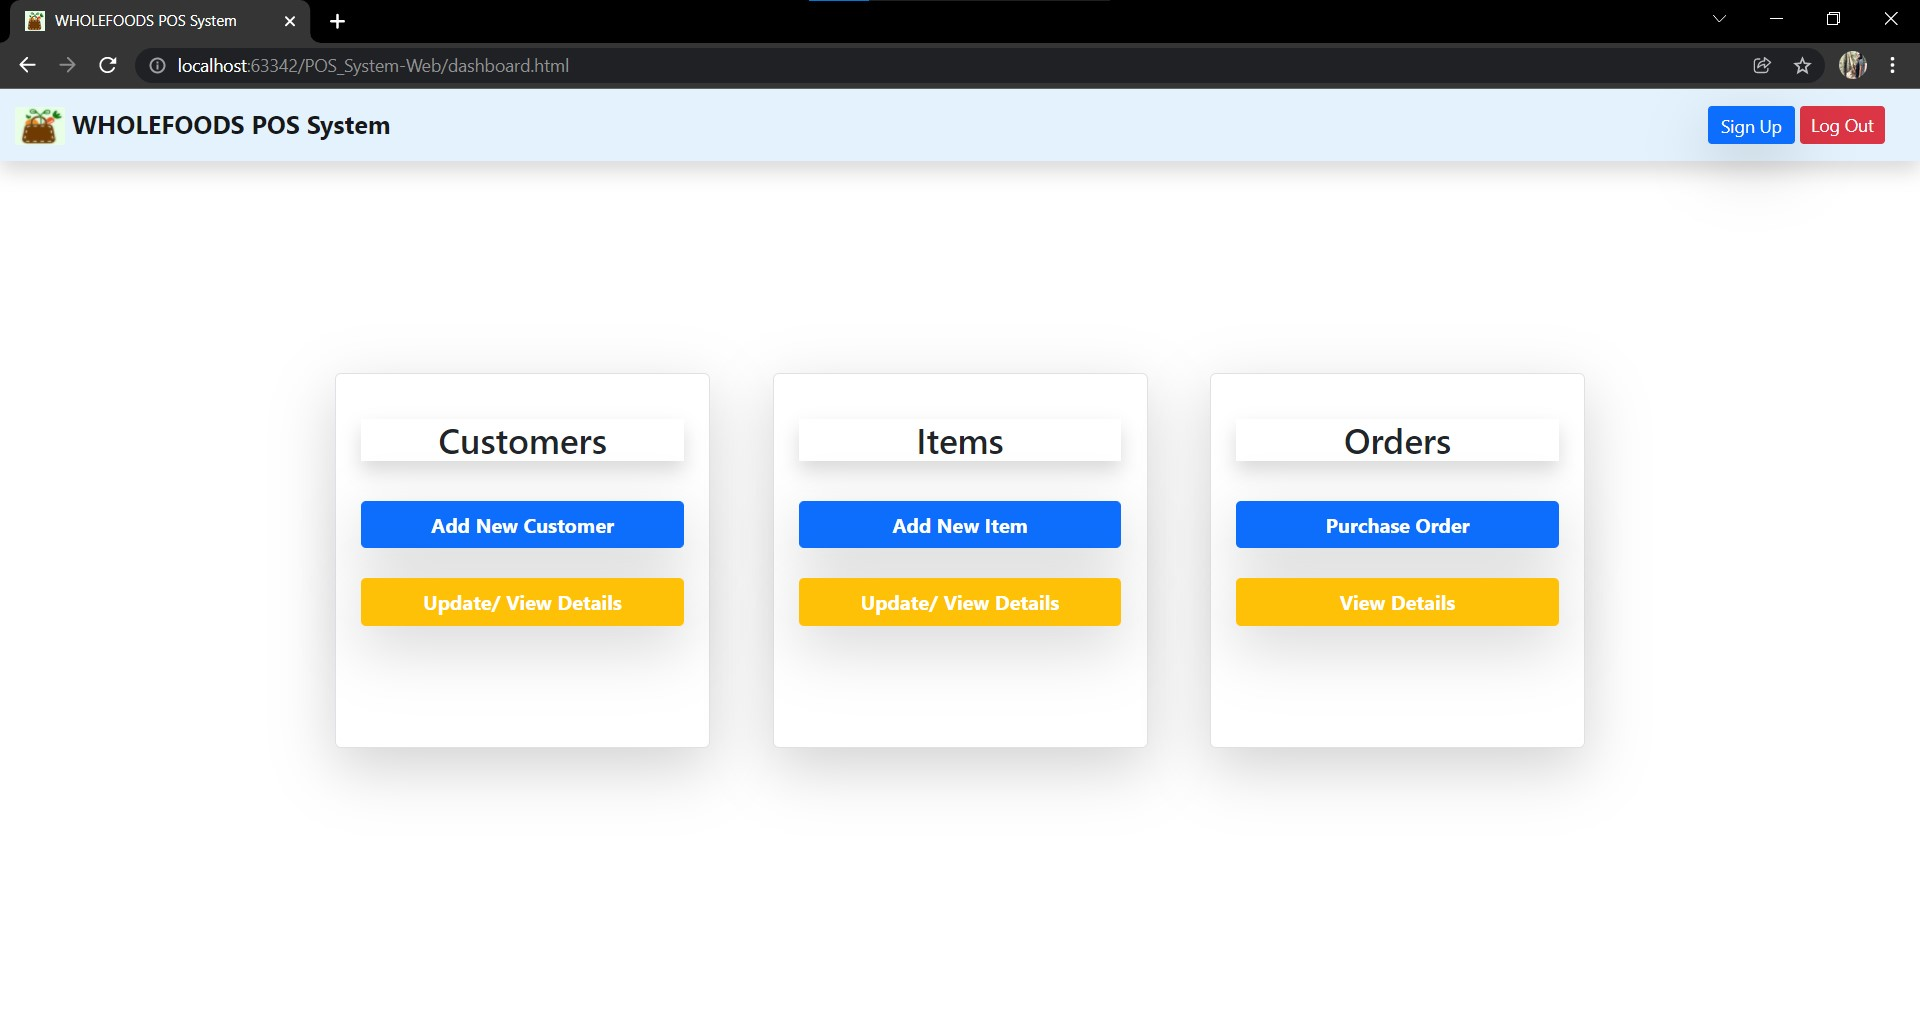
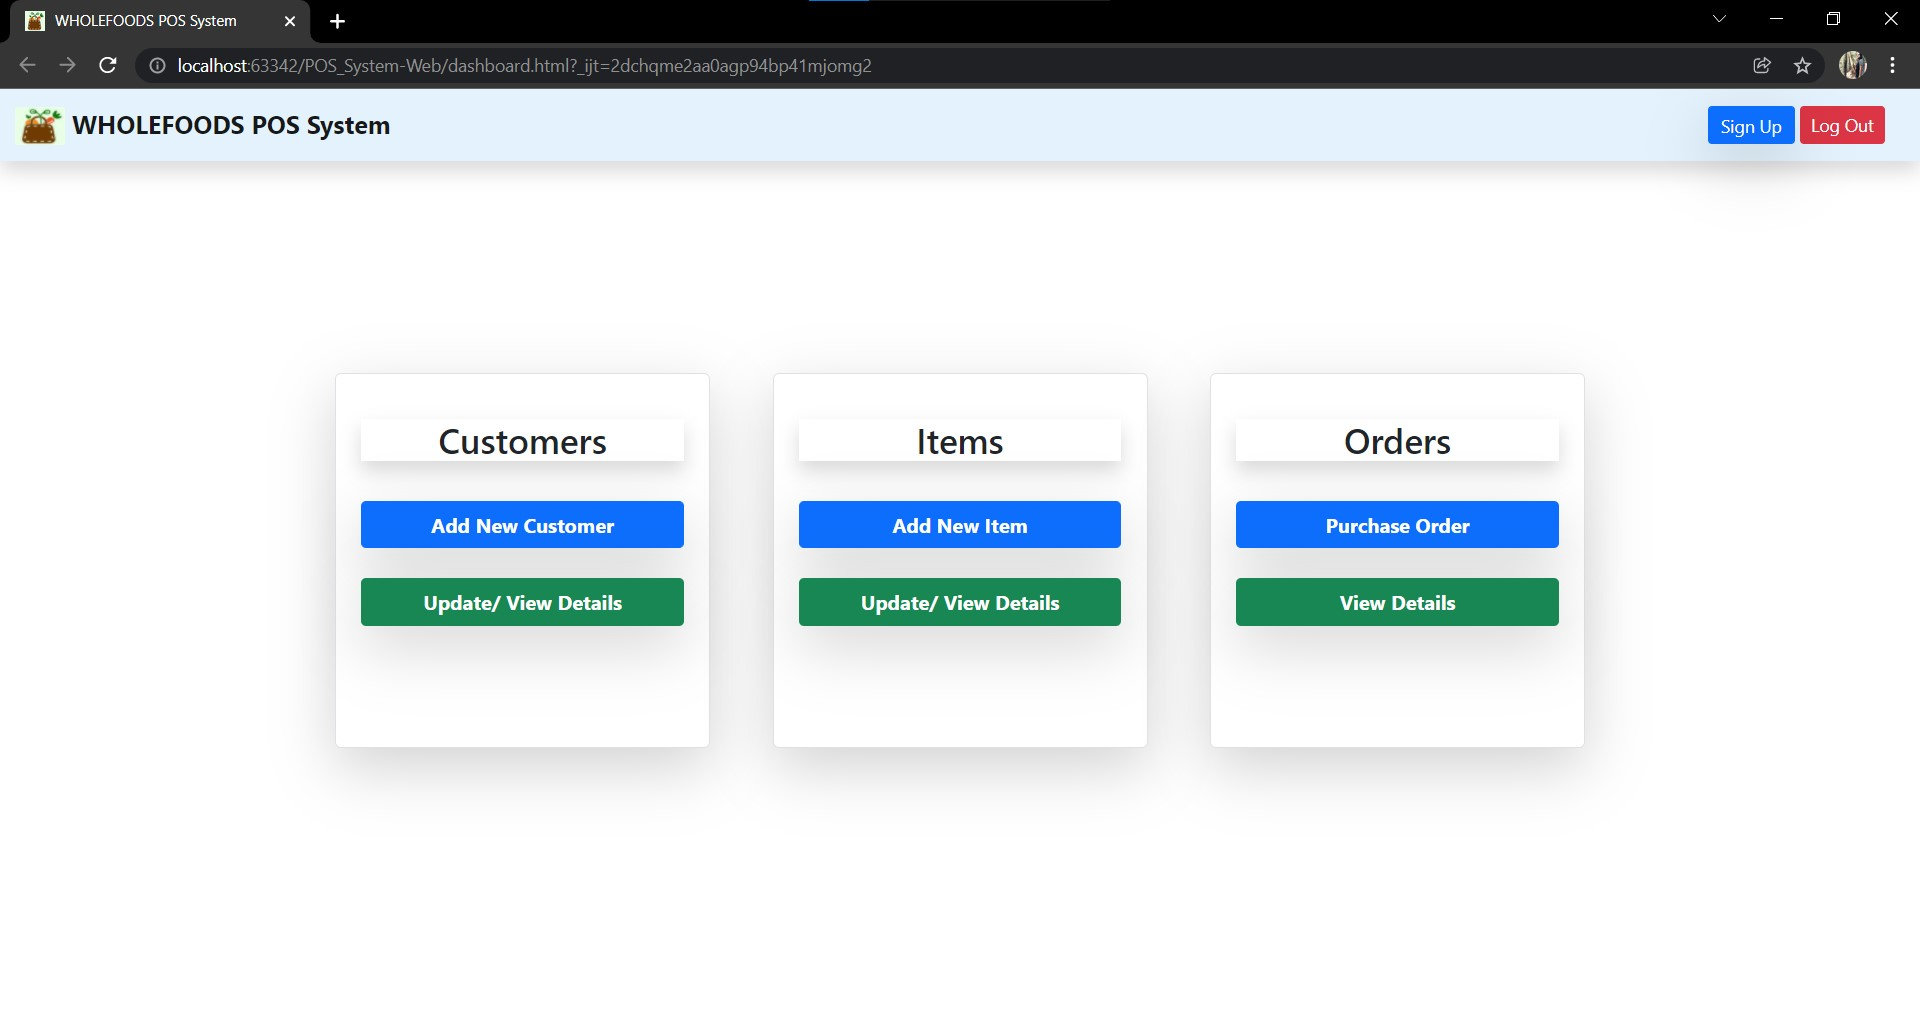
Update README

diff --git a/dashboard.html b/dashboard.html
@@ -565,7 +565,7 @@
         </div>
       </div>
     </div>
-    <button id="customerDetailsBtn"  type="submit" class="btn btn text-white bg-warning col-12 mt-4 fw-bolder shadow-lg"><a href="manageCustomer.html" class="text-decoration-none text-white ">Update/ View Details</a></button>
+    <button id="customerDetailsBtn"  type="submit" class="btn btn text-white bg-success col-12 mt-4 fw-bolder shadow-lg"><a href="manageCustomer.html" class="text-decoration-none text-white ">Update/ View Details</a></button>
   </div>
   <div class="col-4 border border shadow-lg rounded-3 bg-body">
       <h3 id="items" class="text-center mt-3 shadow">Items</h3>
@@ -608,13 +608,13 @@
           </div>
         </div>
       </div>
-      <button id="itemDetailsBtn"  type="submit" class="btn btn text-white bg-warning col-12 mt-4 fw-bolder shadow-lg"><a href="manageStore.html" class="text-decoration-none text-white">Update/ View Details</a></button>
+      <button id="itemDetailsBtn"  type="submit" class="btn btn text-white bg-success col-12 mt-4 fw-bolder shadow-lg"><a href="manageStore.html" class="text-decoration-none text-white">Update/ View Details</a></button>
     </div>
   <div class="col-4 border border shadow-lg rounded-3 bg-body">
       <h3 id="orders" class="text-center mt-3 shadow">Orders</h3>
       <button  id="purchaseBtn" type="submit" class="btn btn bg-primary mt-4 col-12 text-white fw-bolder shadow-lg"><a
               href="placeOrder.html" class="text-decoration-none text-white ">Purchase Order</a></button>
-      <button id="orderDetails" type="submit" class="btn btn text-white bg-warning col-12 mt-4 fw-bolder shadow-lg"><a href="orderDetail.html" class="text-decoration-none text-white">View Details</a></button>
+      <button id="orderDetails" type="submit" class="btn btn text-white bg-success col-12 mt-4 fw-bolder shadow-lg"><a href="orderDetail.html" class="text-decoration-none text-white">View Details</a></button>
     </div>
   </section>
 </section>
